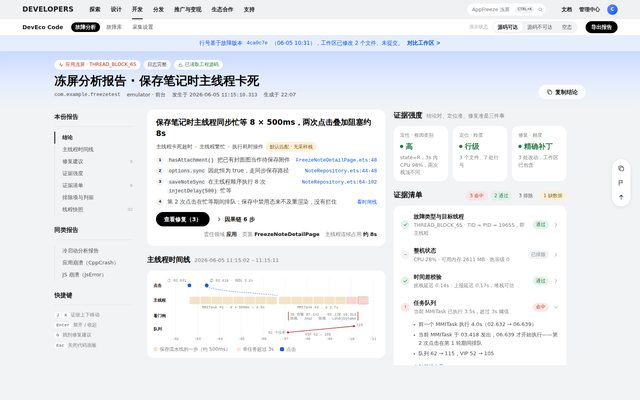
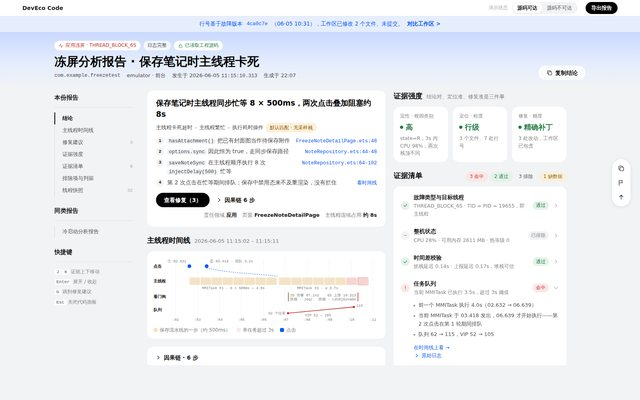
demo 28 去掉全局导航条、空页签和空态
顶部只留白色产品栏（产品名 + 演示状态切换 + 导出报告）；删掉没做的「故障库」
「采集设置」页签、左侧目录里「应用崩溃」「JS 崩溃」两条空链接，以及空态页面
和「分析中」动画——演示状态只剩「源码可达 / 源码不可达」。提示词 §A / §E /
§F 与分析报告设计系统页同步。

diff --git a/demos/28-appfreeze-report/index.html b/demos/28-appfreeze-report/index.html
@@ -16,7 +16,7 @@
   --font:'HarmonyOS Sans SC','HarmonyOS Sans','PingFang SC','Microsoft YaHei','Noto Sans CJK SC',system-ui,sans-serif;
   --mono:'JetBrains Mono','SFMono-Regular',Consolas,'Liberation Mono',monospace;
   --r-card:16px; --r-sm:10px;
-  --top:88px; --wrap:1440px;
+  --top:40px; --wrap:1440px;
 }
 *,*::before,*::after{box-sizing:border-box;margin:0;padding:0}
 html{scroll-padding-top:calc(var(--top) + 16px)}
@@ -26,24 +26,11 @@ code,.mono{font-family:var(--mono);font-size:12.5px}
 :focus-visible{outline:2px solid var(--accent);outline-offset:2px;border-radius:6px}
 svg.i{width:16px;height:16px;fill:none;stroke:currentColor;stroke-width:1.6;stroke-linecap:round;stroke-linejoin:round;flex:none}
 
-/* ===== 顶部：全局导航（浅灰）+ 产品二级栏（白） ===== */
+/* ===== 顶部：产品栏（白） ===== */
 .top{position:sticky;top:0;z-index:50}
-.gh{height:48px;background:var(--hdr-bg);display:flex;align-items:center;gap:40px;padding:0 56px}
-.wordmark{font-size:17px;font-weight:600;letter-spacing:.02em;color:var(--ink1);white-space:nowrap}
-.gh nav{display:flex;gap:26px;height:100%}
-.gh nav a{display:flex;align-items:center;color:var(--ink1);text-decoration:none;font-size:13.5px;font-weight:600;position:relative;white-space:nowrap}
-.gh nav a.on::after{content:'';position:absolute;left:0;right:0;bottom:0;height:2px;background:var(--ink);border-radius:1px}
-.gh .grow{flex:1}
-.search{display:flex;align-items:center;gap:8px;height:30px;width:196px;padding:0 6px 0 12px;background:var(--paper);border-radius:999px;color:var(--ink3);font-size:12.5px;white-space:nowrap}
-.search .k{margin-left:auto;font-size:10px;font-family:var(--mono);background:var(--fill);border-radius:999px;padding:1px 6px;color:var(--ink2)}
-.gh .r{display:flex;align-items:center;gap:18px;font-size:13px;font-weight:600;white-space:nowrap}
-.avatar{width:26px;height:26px;border-radius:50%;background:linear-gradient(135deg,#6C8CFF,#0A59F7);color:#fff;display:grid;place-items:center;font-size:12px;font-weight:600}
 .sub{height:40px;background:var(--paper);display:flex;align-items:center;gap:20px;padding:0 56px;box-shadow:0 1px 0 var(--line)}
 .sub .prod{font-weight:700;font-size:14px;white-space:nowrap}
 @media (max-width:900px){.sub .prod{display:none}.sub{gap:8px}}
-.tabs{display:flex;gap:6px}
-.tabs a{height:24px;padding:0 10px;border-radius:999px;display:flex;align-items:center;font-size:13px;color:var(--ink2);text-decoration:none;white-space:nowrap}
-.tabs a.on{background:var(--btn);color:#fff;font-weight:600}
 .sub .grow{flex:1}
 .seg{display:inline-flex;background:var(--fill);border-radius:999px;padding:2px}
 .seg button{height:26px;padding:0 12px;border-radius:999px;font-size:12.5px;color:var(--ink2);white-space:nowrap}
@@ -99,8 +86,7 @@ h1{font-size:30px;font-weight:700;line-height:1.3;color:var(--ink)}
 .keys{font-size:12px;color:var(--ink3);line-height:2.1}
 .main{flex:1;min-width:0}
 @media (min-width:901px){.wrap{padding-right:104px}}
-body.is-empty .sub .btn{display:none}
-body.is-empty .side .rep{display:none}
+
 
 /* ===== 两栏正文 ===== */
 .grid2{display:grid;grid-template-columns:minmax(0,58fr) minmax(0,42fr);gap:20px;align-items:start}
@@ -266,33 +252,14 @@ a.btn{text-decoration:none}
 .flag{position:sticky;top:8px;float:right;margin-right:16px;z-index:2;background:var(--no);color:#fff;font-size:12px;font-weight:600;border-radius:999px;padding:4px 12px}
 .dr-f{padding:10px 20px;background:var(--fill);font-size:12.5px;color:var(--ink3);display:flex;gap:10px;align-items:center}
 
-/* 空态：文档中心式黑色头图 + 白卡网格 */
-.dark-hero{background:#000 radial-gradient(rgba(255,255,255,.14) 1px,transparent 1.2px) 0 0/14px 14px;color:#fff;text-align:center;padding:52px 16px 48px}
-.dark-hero h1{color:#fff;font-size:46px;font-weight:800;letter-spacing:.04em}
-.dark-hero p{margin-top:12px;font-size:16px;color:rgba(255,255,255,.88)}
-.empty{max-width:980px}
-.empty h2{font-size:20px;font-weight:700;margin:4px 0 16px;color:var(--ink)}
-.empty h3{font-size:16px;font-weight:700;margin:28px 0 14px;color:var(--ink)}
-.drop{border-radius:var(--r-card);padding:30px;background:var(--paper);color:var(--ink3);display:flex;flex-direction:column;align-items:center;gap:10px}
-.drop svg{width:28px;height:28px;color:var(--ink1)}
-.samples{display:grid;grid-template-columns:repeat(3,minmax(0,1fr));gap:14px}
-.sample{background:var(--paper);border-radius:var(--r-card);padding:18px 18px;text-align:left;display:flex;flex-direction:column;gap:6px;transition:box-shadow .15s;min-height:120px}
-.sample:hover{box-shadow:0 4px 16px rgba(0,0,0,.08)}
-.sample b{font-weight:700;font-size:15px;color:var(--ink)}
-.sample span.d{font-size:13px;color:var(--ink2);line-height:1.5}
-.sample.off{opacity:.55;cursor:default}.sample.off:hover{box-shadow:none}
-.analyzing .ck-h{opacity:.35}
-.analyzing .ck.lit .ck-h{opacity:1}
-
 .toast{position:fixed;left:50%;bottom:32px;transform:translate(-50%,20px);background:#191919;color:#fff;padding:10px 18px;border-radius:999px;font-size:13px;opacity:0;transition:all .2s;z-index:99;pointer-events:none}
 .toast.on{opacity:1;transform:translate(-50%,0)}
 .kbd{font-family:var(--mono);font-size:11px;background:var(--paper);border-radius:4px;padding:1px 5px;color:var(--ink2)}
 .hint{font-size:12px;color:var(--ink4);margin-top:10px}
 .fade{animation:fade .35s ease}
 @keyframes fade{from{opacity:.2;transform:translateY(4px)}to{opacity:1;transform:none}}
-@media (max-width:1100px){.gh nav a:nth-child(n+5){display:none}.search{display:none}}
-@media (max-width:900px){.side,.float{display:none}.wrap{padding:8px 16px 60px}.hero-in{padding:18px 16px 14px}.gh,.sub{padding:0 16px;gap:12px}.gh nav,.gh .r .txt,.seg-lbl,.tabs a:not(.on){display:none}.seg button{padding:0 8px;font-size:12px}
-  h1{font-size:24px}.axes,.samples{grid-template-columns:1fr}.pts li{grid-template-columns:20px 1fr}.pts li>span:last-child{grid-column:2}.vmeta{margin-left:0}.band{height:auto;padding:8px 16px;flex-wrap:wrap}.drawer{width:100vw}.dark-hero h1{font-size:32px}.sub .btn{display:none}}
+@media (max-width:900px){.side,.float{display:none}.wrap{padding:8px 16px 60px}.hero-in{padding:18px 16px 14px}.sub{padding:0 16px;gap:12px}.seg-lbl{display:none}.seg button{padding:0 8px;font-size:12px}
+  h1{font-size:24px}.axes{grid-template-columns:1fr}.pts li{grid-template-columns:20px 1fr}.pts li>span:last-child{grid-column:2}.vmeta{margin-left:0}.band{height:auto;padding:8px 16px;flex-wrap:wrap}.drawer{width:100vw}.sub .btn{display:none}}
 @media (prefers-reduced-motion:reduce){*{animation:none!important;transition:none!important}}
 </style>
 </head>
@@ -317,29 +284,19 @@ a.btn{text-decoration:none}
   <symbol id="i-warn" viewBox="0 0 24 24"><path d="M12 4l9 16H3z"/><path d="M12 10v4M12 17v.5"/></symbol>
   <symbol id="i-info" viewBox="0 0 24 24"><circle cx="12" cy="12" r="9"/><path d="M12 11v6M12 7.5v.5"/></symbol>
   <symbol id="i-ok" viewBox="0 0 24 24"><circle cx="12" cy="12" r="9"/><path d="M8 12.5l3 3 5-6"/></symbol>
-  <symbol id="i-search" viewBox="0 0 24 24"><circle cx="11" cy="11" r="6"/><path d="M20 20l-4.5-4.5"/></symbol>
   <symbol id="i-flag" viewBox="0 0 24 24"><path d="M5 21V4M5 4h11l-2 4 2 4H5"/></symbol>
   <symbol id="i-up" viewBox="0 0 24 24"><path d="M12 19V6M6 11l6-6 6 6"/></symbol>
   <symbol id="i-refresh" viewBox="0 0 24 24"><path d="M20 11a8 8 0 0 0-14.6-4.5M4 5v4h4M4 13a8 8 0 0 0 14.6 4.5M20 19v-4h-4"/></symbol>
 </svg>
 
 <div class="top">
-  <header class="gh">
-    <span class="wordmark">DEVELOPERS</span>
-    <nav><a href="#">探索</a><a href="#">设计</a><a class="on" href="#">开发</a><a href="#">分发</a><a href="#">推广与变现</a><a href="#">生态合作</a><a href="#">支持</a></nav>
-    <span class="grow"></span>
-    <span class="search">AppFreeze 冻屏<span class="k">CTRL+K</span><svg class="i" style="width:14px;height:14px"><use href="#i-search"/></svg></span>
-    <span class="r"><span class="txt">文档</span><span class="txt">管理中心</span><span class="avatar">C</span></span>
-  </header>
   <div class="sub">
     <span class="prod">DevEco Code</span>
-    <span class="tabs"><a class="on" href="#">故障分析</a><a href="#">故障库</a><a href="#">采集设置</a></span>
     <span class="grow"></span>
     <span class="seg-lbl">演示状态</span>
     <div class="seg" id="mode" role="tablist">
       <button data-m="v2" class="on">源码可达</button>
       <button data-m="v1">源码不可达</button>
-      <button data-m="empty">空态</button>
     </div>
     <button class="btn pri sm" data-act="export">导出报告</button>
   </div>
@@ -360,7 +317,7 @@ a.btn{text-decoration:none}
       <a href="#sec-threads" data-s="sec-threads">线程快照<span class="n">32</span></a>
     </nav></div>
     <h6>同类报告</h6>
-    <nav class="tree"><a href="../22-coldstart-report/index.html">冷启动分析报告</a><a href="#" data-act="noop">应用崩溃（CppCrash）</a><a href="#" data-act="noop">JS 崩溃（JsError）</a></nav>
+    <nav class="tree"><a href="../22-coldstart-report/index.html">冷启动分析报告</a></nav>
     <h6>快捷键</h6>
     <div class="keys">
       <span class="kbd">J</span> <span class="kbd">K</span> 证据上下移动<br>
@@ -477,7 +434,7 @@ git status           →  M FreezeNoteDetailPage.ets / M NoteRepository.ets`}
     {id:'special', s:'excl', t:'专项排除', one:'7 类阻塞模式全部排除', pts:['见「排除项与判据」'], raw:RAW.special},
     {id:'others', s:'excl', t:'其他线程', one:'31 个线程均为 S 态空闲，无持锁、无跨线程依赖', pts:['OS_IPC × 5、GC × 4、FFRT、ace.bg × 8 全部在条件等待'], raw:null},
     {id:'sample', s:'miss', t:'采样栈', one:'未包含采样栈 → 三级根因按规则默认匹配',
-     pts:['三级根因「执行耗时操作」需要采样栈里热点占比 > 30% 才能判定，本次为默认匹配','开启方式：在「采集设置」里打开冻屏采样栈，再复现一次'], raw:null},
+     pts:['三级根因「执行耗时操作」需要采样栈里热点占比 > 30% 才能判定，本次为默认匹配','补法：打开冻屏采样栈采集后再复现一次'], raw:null},
     Object.assign({id:'source'}, src),
   ];
 }
@@ -582,8 +539,6 @@ function locLink(l){const [f,a,b]=l;return `<a class="link" data-loc="${f}|${a}|
 /* ---------- 渲染 ---------- */
 function render(anim){
   const m=$('#main');
-  document.body.classList.toggle('is-empty',mode==='empty');
-  if(mode==='empty'){ renderEmpty(); return; }
   const d=V[mode], cks=checks(mode), fixes=FIX[mode];
   const cnt={hit:0,pass:0,excl:0,miss:0}; cks.forEach(c=>cnt[c.s]++);
   $('#nav-fixn').textContent=fixes.length; $('#nav-ckn').textContent=cks.length;
@@ -752,30 +707,6 @@ function drawTimeline(){
   svg.innerHTML=g;
 }
 
-/* ---------- 空态 ---------- */
-function renderEmpty(){
-  $('#band').className='band'; $('#band').innerHTML='';
-  $('#hero').innerHTML=`<div class="dark-hero"><h1>故障分析</h1><p>拖入一条 faultlog，得到结论先行、可核验、能落到代码行的冻屏与崩溃分析报告。</p></div>`;
-  $('#main').innerHTML=`<div class="empty fade">
-    <h2>开始一次分析</h2>
-    <div class="drop">${ic('upload')}<span>把 <span class="mono">appfreeze-*.log</span> 拖到这里，或从 FaultLog 面板拖入</span><button class="btn pri sm" data-act="noop">从设备拉取</button></div>
-    <h3>示例记录</h3>
-    <div class="samples">
-      <button class="sample" data-act="load" data-m="v2"><span class="pill no" style="align-self:flex-start">THREAD_BLOCK_6S</span><b>保存笔记时主线程卡死</b><span class="d">可读取源码 · 定位到行、给出补丁、可复现验证</span></button>
-      <button class="sample" data-act="load" data-m="v1"><span class="pill no" style="align-self:flex-start">THREAD_BLOCK_6S</span><b>同一条记录 · 只有 faultlog</b><span class="d">未授权读取源码 · 定位到业务函数、给出通用方向</span></button>
-      <a class="sample" href="../22-coldstart-report/index.html" style="text-decoration:none"><span class="pill" style="align-self:flex-start">冷启动</span><b>冷启动分析报告</b><span class="d">打分 + 时延瀑布 + 根因，按页面总览下钻</span></a>
-    </div></div>`;
-}
-
-/* 分析中：证据清单逐项点亮 */
-function analyze(m){
-  mode=m; verified=false; setSeg(); render(true);
-  const box=$('#checks'); box.classList.add('analyzing');
-  const rows=$$('#checks .ck'); rows.forEach(r=>r.classList.remove('open'));
-  rows.forEach((r,i)=>setTimeout(()=>r.classList.add('lit'),180*(i+1)));
-  setTimeout(()=>{box.classList.remove('analyzing');rows.forEach(r=>{r.classList.remove('lit');if(openChecks.has(r.dataset.id))r.classList.add('open')})},180*(rows.length+1));
-}
-
 /* 源码授权：三步进度后就地升级 */
 function upgrade(){
   const box=$('#upg'); if(!box) return;
@@ -872,7 +803,6 @@ document.addEventListener('click',e=>{
     case 'copy-diff': { const f=FIX[mode][+t.dataset.i]; copy(f.diff.filter(d=>d[0]!=='g').map(([k,,x])=>(k==='a'?'+':k==='d'?'-':' ')+x).join('\n'),mode==='v2'?'diff 已复制':'示例代码已复制'); break; }
     case 'copy-raw': { e.preventDefault(); const c=checks(mode).find(c=>c.id===t.dataset.id); copy(c.raw,'原始日志已复制'); break; }
     case 'export': toast('已导出单文件报告 appfreeze-20260605-111510.html'); break;
-    case 'load': analyze(t.dataset.m); break;
     case 'feedback': toast('已记录：结论有误的反馈会回流到故障模式库'); break;
     case 'top': window.scrollTo({top:0,behavior:'smooth'}); break;
     case 'noop': e.preventDefault(); break;
@@ -881,7 +811,6 @@ document.addEventListener('click',e=>{
 document.addEventListener('keydown',e=>{
   if(e.target.closest('input,textarea')) return;
   if(e.key==='Escape'){ closeCode(); return; }
-  if(mode==='empty') return;
   if(e.key==='j'||e.key==='J'){ setFocus(focusIdx+1); e.preventDefault(); }
   else if(e.key==='k'||e.key==='K'){ setFocus(focusIdx<0?0:focusIdx-1); e.preventDefault(); }
   else if(e.key==='Enter' && focusIdx>=0 && !e.target.closest('button,a,summary')){ toggleCheck($$('#checks .ck')[focusIdx]); e.preventDefault(); }

diff --git a/analysis/appfreeze-report/REPORT-分析报告.html b/analysis/appfreeze-report/REPORT-分析报告.html
@@ -518,7 +518,7 @@ b.r{color:var(--red)}b.g{color:var(--green)}b.y{color:var(--yellow)}b.b{color:va
       </div>
       <div class="col">
         <h3>目标：鸿蒙开发者官网（提示词 §A，按官网截图）</h3>
-        <div class="card"><h4>骨架</h4><p>浅灰全局导航（DEVELOPERS 字标 + 加粗导航，当前项黑色下划线）→ 白色产品二级栏（黑色胶囊页签）→ 全宽浅蓝提示条 → 浅蓝渐变头图 → 灰底正文、左侧目录树</p></div>
+        <div class="card"><h4>骨架</h4><p>白色产品栏吸顶（只有加粗产品名，不要官网全局导航条，没做的页面不放页签）→ 全宽浅蓝提示条 → 浅蓝渐变头图 → 灰底正文、左侧目录树</p></div>
         <div class="card"><h4>颜色</h4><p>页面 <span class="sw" style="background:#F1F3F5"></span><code>#F1F3F5</code> 上放白卡；主按钮黑色胶囊 <span class="sw" style="background:#000"></span>；蓝 <span class="sw" style="background:#0A59F7"></span><code>#0A59F7</code> 只给链接与提示；状态三色 <span class="sw" style="background:#C4322A"></span><span class="sw" style="background:#8F5A00"></span><span class="sw" style="background:#237A45"></span></p></div>
         <div class="card"><h4>卡片</h4><p>白底、16px 圆角、无边框无阴影；卡内代码块、编号圆点、次按钮用 <code>#F1F3F5</code> 填充</p></div>
         <div class="card"><h4>字体与图标</h4><p>标题加粗（H1 30px 700）；HarmonyOS Sans SC → PingFang SC → 微软雅黑；图标线性 SVG，不用 emoji</p></div>

diff --git a/analysis/appfreeze-report/PROMPT-Demo优化提示词.md b/analysis/appfreeze-report/PROMPT-Demo优化提示词.md
@@ -2,7 +2,7 @@
 
 > 模式：**优化模式**（有现存 UI：两份低保真 HTML 报告 → 一个模板承载两种输入条件的高保真 Demo）
 > 输入：`input/v1-源码不可达-210435.html`、`input/v2-源码可达-220705.html`
-> 产出：`demos/28-appfreeze-report/index.html`——单文件、可双击打开、**CSS/JS 全部内联、零外链**；一个页面内可切换「源码可达 / 源码不可达 / 空态」
+> 产出：`demos/28-appfreeze-report/index.html`——单文件、可双击打开、**CSS/JS 全部内联、零外链**；一个页面内可切换「源码可达 / 源码不可达」
 > 问题编号 B1–B17 与可视化报告 critique 页同源，数字均为实测值（Chromium 无头，视口 1440×900）
 
 ---
@@ -26,12 +26,11 @@
 **设计系统 = 鸿蒙开发者官网**，以 2026-09-23 提供的三张截图为准（文档中心 `/doc/`、开发 `/develop/`、DevEco Studio `/deveco-studio/`）。截图和 `deck-blueprint-style` 的令牌冲突时，以截图为准。报告做成官网里的一页，不套 IDE 外壳。
 
 **页面骨架（自上而下）**
-1. 全局导航 48px，浅灰底 `#EFF1F3`：左边 `DEVELOPERS` 字标（17px，600），导航「探索 设计 开发 分发 推广与变现 生态合作 支持」13.5px 加粗黑字，当前项下方 2px **黑色**下划线；右侧白色胶囊搜索框（带 `CTRL+K` 小标签）、「文档」「管理中心」、头像。
-2. 产品二级栏 40px，白底：左边产品名加粗「DevEco Code」，页签「故障分析 / 故障库 / 采集设置」，当前页签是**黑底白字胶囊**；右侧黑色胶囊主按钮「导出报告」。
-3. 全宽提示条 40px，居中文字 + 末尾「… &gt;」链接：信息用 `#E6EEFE` 底蓝字（同官网「对鸿蒙开发还不太熟悉？立即查看开发入门指引 &gt;」），警告用 `#FBF0DC` 底棕字。
-4. 头图：DevEco Studio 页那样的浅蓝渐变，从 `#C9D9FF` 淡出到页面灰；空态改用文档中心那样的黑色头图（白色大标题 46px 800 + 点阵底纹）。
-5. 正文：页面底 `#F1F3F5`，内容居中（最大 1440px）；左侧是文档中心式目录树：分组标题加粗 + 细分隔线，条目左侧 1px 灰竖线，当前项加粗并带 2px 黑色竖条。
-6. 右侧悬浮工具条：白色竖向胶囊，3 个线性图标（复制结论 / 结论有误反馈 / 回到顶部）。
+1. 顶部只保留产品栏 40px（**不要官网的全局导航条**），白底、吸顶：左边产品名加粗「DevEco Code」（没做的页面不放页签）；右侧黑色胶囊主按钮「导出报告」。
+2. 全宽提示条 40px，居中文字 + 末尾「… &gt;」链接：信息用 `#E6EEFE` 底蓝字（同官网「对鸿蒙开发还不太熟悉？立即查看开发入门指引 &gt;」），警告用 `#FBF0DC` 底棕字。
+3. 头图：DevEco Studio 页那样的浅蓝渐变，从 `#C9D9FF` 淡出到页面灰。
+4. 正文：页面底 `#F1F3F5`，内容居中（最大 1440px）；左侧是文档中心式目录树：分组标题加粗 + 细分隔线，条目左侧 1px 灰竖线，当前项加粗并带 2px 黑色竖条。
+5. 右侧悬浮工具条：白色竖向胶囊，3 个线性图标（复制结论 / 结论有误反馈 / 回到顶部）。
 
 | Token | 值 | 用途 |
 |---|---|---|
@@ -124,7 +123,7 @@
 - 目标：证据清单默认折叠，只展开「任务队列」一项。展开后两层：解读要点（堆栈项用「帧号 → 人话」对照表）→「原始日志」再次折叠（等宽、`--paper` 底、自动换行、右上「复制原文」）。〔应用开发者 / DFX 专家〕
 
 **B7 源码不可达无降级**
-- 目标（V1 状态）：二级栏下方全宽 `#FBF0DC` 提示条（不可关闭，属于「警告永不压缩」）：「**未读取工程源码：**定位只到业务函数（来自应用日志），修复为通用方向，可能与现有代码重复。允许读取源码并重新定位 &gt;」。
+- 目标（V1 状态）：产品栏下方全宽 `#FBF0DC` 提示条（不可关闭，属于「警告永不压缩」）：「**未读取工程源码：**定位只到业务函数（来自应用日志），修复为通用方向，可能与现有代码重复。允许读取源码并重新定位 &gt;」。
 - V1 修复卡：编号圆标用 `--part`，标「通用方向」胶囊；代码块按普通示例代码显示（不画成 diff）；只有「复制示例代码」，**不提供「应用补丁」**，旁边给链接「读取源码，换成精确补丁」；建议 2 下方一行 `--part` 提示：「页面可能已经有保存中禁用逻辑；主线程被阻塞时它不会重渲染，拦不住第 2 次点击——先完成上一条。」
 - 点「允许读取源码并重新定位」→ 结论卡内 3 步进度（读取工程 → 版本比对 · 4ca0c7e → 重新定位）→ 同一页面就地升级为 V2 状态。〔外包/QA 场景·源码不可达〕
 
@@ -146,10 +145,10 @@
 - 目标：V1 写「8 步、每步约 500ms，单轮约 4.0s」；修复区副标题随状态变化（V2「精确补丁 · 按行号定位」/ V1「通用方向 · 未经源码核实」）。
 
 **B13 空态**
-- 目标：「采样栈」并入证据清单为「缺数据」一行：「未包含采样栈 → 三级根因按规则默认匹配」，展开说明判定规则与开启方式（顶部导航「采集设置」）。〔DFX 专家〕
+- 目标：「采样栈」并入证据清单为「缺数据」一行：「未包含采样栈 → 三级根因按规则默认匹配」，展开说明判定规则与补法（打开冻屏采样栈采集后再复现一次）。〔DFX 专家〕
 
 **B14 版本差异**
-- 目标（V2 状态）：二级栏下方全宽 `#E6EEFE` 提示条：「行号基于故障版本 `4ca0c7e`（06-05 10:31），工作区已修改 2 个文件、未提交。对比工作区 &gt;」（代码面板里列出 3 处改动）。
+- 目标（V2 状态）：产品栏下方全宽 `#E6EEFE` 提示条：「行号基于故障版本 `4ca0c7e`（06-05 10:31），工作区已修改 2 个文件、未提交。对比工作区 &gt;」（代码面板里列出 3 处改动）。
 
 **B15 原文污染**
 - 目标：原始日志只放原文；逐帧解读放在日志上方的「帧号 → 人话」对照表。
@@ -172,11 +171,10 @@
 ## §E 视图设计要求
 
 ### 报告页（官网形态）
-- 顶部：全局导航 + 产品二级栏（见 §A）；二级栏右侧放「演示状态」分段切换「源码可达 / 源码不可达 / 空态」——**Demo 专用**——和黑色「导出报告」。
+- 顶部：只有产品栏（见 §A，不要全局导航条）；产品栏右侧放「演示状态」分段切换「源码可达 / 源码不可达」——**Demo 专用**——和黑色「导出报告」。
 - 提示条 → 蓝色渐变头图（状态胶囊 + H1 + 元信息 +「复制结论」）→ 正文。
-- 左侧目录：「本份报告」7 个区块（带数量的给数量：修复 3、证据 9、线程 32），滚动时高亮当前区块；「同类报告」；「快捷键」。
+- 左侧目录：「本份报告」7 个区块（带数量的给数量：修复 3、证据 9、线程 32），滚动时高亮当前区块；「同类报告」只列已有的冷启动分析报告；「快捷键」。
 - 代码面板：见 B3，自顶栏下方滑出；文件标签用胶囊，当前文件黑底。Mock 源码行号与 V2 一致：FreezeNoteDetailPage.ets :27 aboutToAppear / :45-54 hasAttachment（:48 return）/ :86-89 options；NoteRepository.ets :44-48 / :64-102；FreezeTestHelper.ets :26-31。
-- 空态：黑色头图「故障分析」→「开始一次分析」拖放白卡 →「示例记录」三张白卡（本次两份数据 + 冷启动报告）。
 
 ### 实现约束
 - 纯 HTML + 内联 CSS/JS，零依赖；时间线用内联 SVG。
@@ -187,8 +185,6 @@
 
 | 状态 | 触发 | 视觉表现 |
 |---|---|---|
-| 空（无故障） | 未选择 faultlog | 「选择一条冻屏记录开始分析」+ 拖放区 +「从设备拉取」+ 两张示例卡（本次两份数据），左侧目录收起报告区块 |
-| 分析中 | 点示例卡 | 证据清单 9 行依次点亮后恢复默认展开状态 |
 | 源码可达（V2） | `sourceAccess=granted` | 三轴：高 / 行级 / 精确补丁；版本横幅；修复卡带 diff |
 | 源码不可达（V1） | `sourceAccess=denied` | 警告横幅 + 升级按钮；三轴：高 / 函数级 / 通用方向；修复卡只能复制；复现验证禁用 |
 | 升级中 | 点「允许读取源码」 | 结论卡内 3 步进度，其余区域保持可读，完成后就地变 V2 |
@@ -207,7 +203,7 @@
 | 历史 / 复用 | 本轮不做 | 同签名聚合需线上数据（O14，P2） |
 | 多格式导出 | 要（轻量） | 「复制结论」（一句话 + 责任领域 + 定位，纯文本）、「复制 diff」、「导出报告」（单文件 HTML） |
 | 联动 | 要 | 要点 / 证据项 →「看时间线」；行号 → 代码面板；时间线段 hover → 对应 hilog |
-| 快速起点 | 要 | 空态两张示例卡 |
+| 快速起点 | 本轮不做 | 本页只承载单份报告，不做空态与示例入口 |
 | 逐元素操作 | 要 | 每个原始日志块「复制原文」；每个行号可跳转 |
 | 键盘加速 | 要 | `J/K` 在证据清单上下移动，`Enter` 展开，`G` 跳到修复区 |
 
